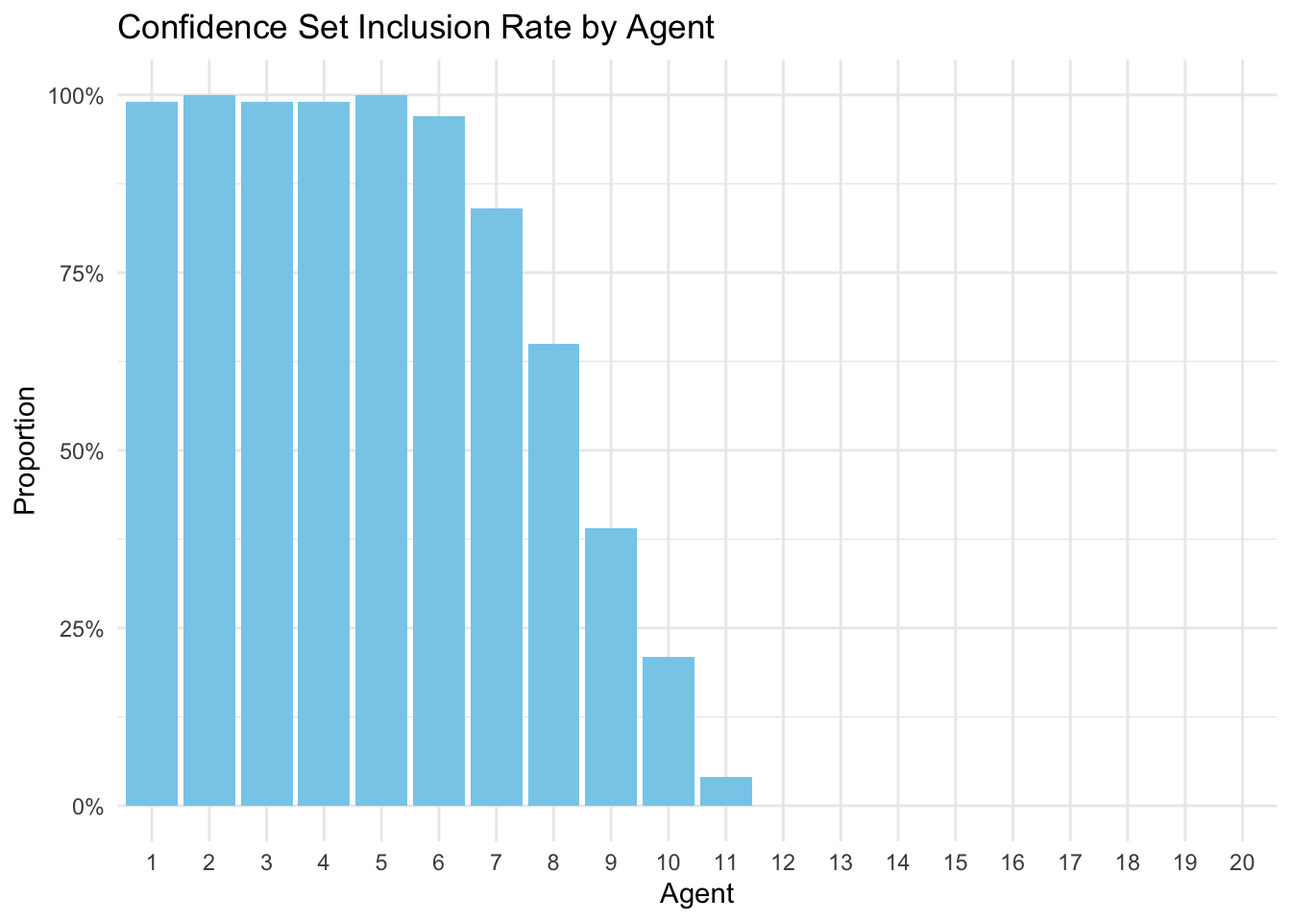
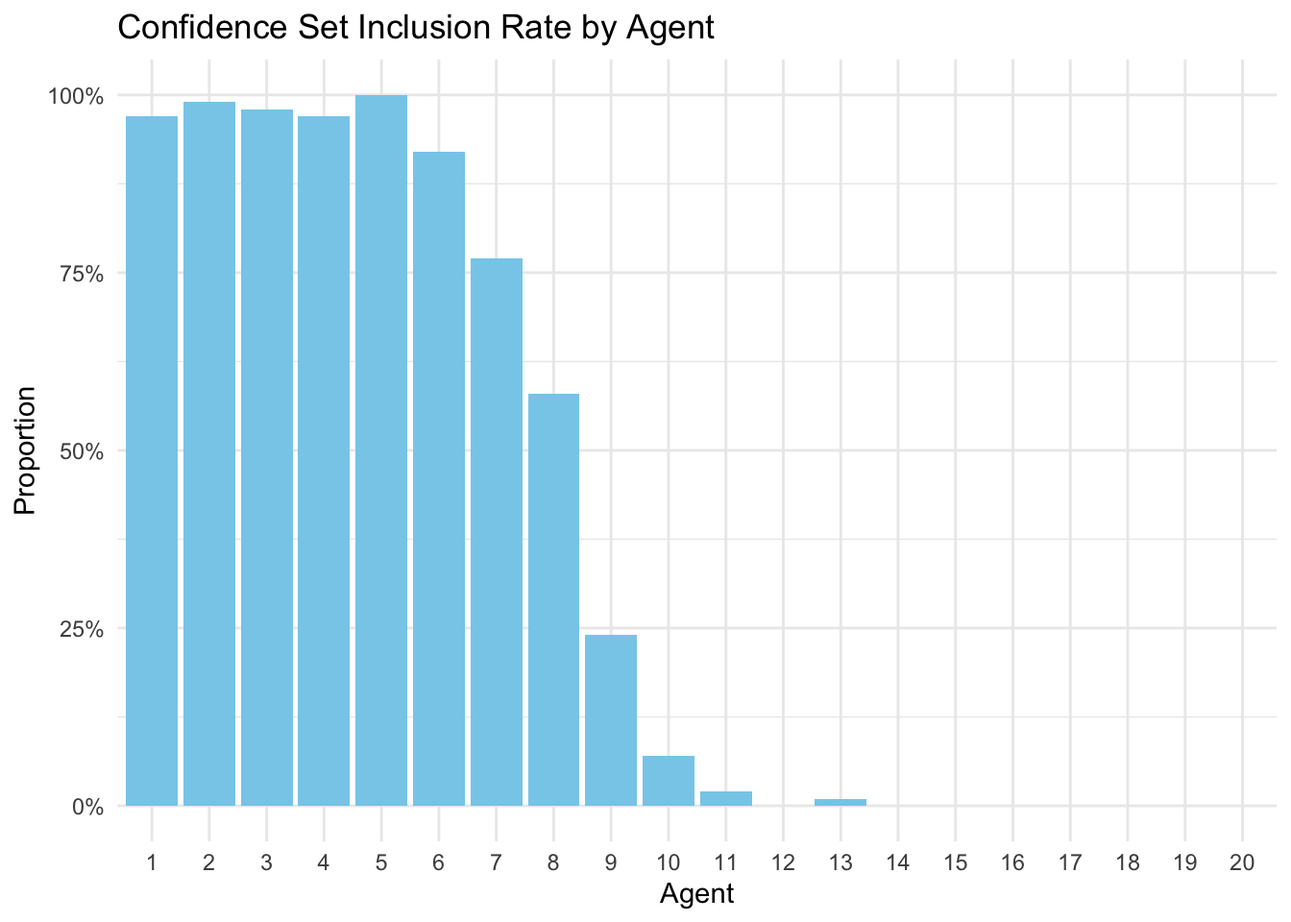
re-run Tianyu's demo

diff --git a/docs/demo_CSargmin.html b/docs/demo_CSargmin.html
@@ -134,20 +134,23 @@ Obs_5 0.23151296 1.05924724 1.3493602  0.2582443  0.4914450</code></pre>
 </div>
 <p>Agents 1–5 have the lowest true losses.</p>
 <div class="cell">
-<div class="sourceCode cell-code" id="cb4"><pre class="sourceCode r code-with-copy"><code class="sourceCode r"><span id="cb4-1"><a href="#cb4-1" aria-hidden="true" tabindex="-1"></a><span class="fu">library</span>(ggplot2)</span>
-<span id="cb4-2"><a href="#cb4-2" aria-hidden="true" tabindex="-1"></a>df <span class="ot">&lt;-</span> <span class="fu">data.frame</span>(</span>
-<span id="cb4-3"><a href="#cb4-3" aria-hidden="true" tabindex="-1"></a>    <span class="at">Agent =</span> <span class="fu">factor</span>(<span class="dv">1</span><span class="sc">:</span>agent_num),</span>
-<span id="cb4-4"><a href="#cb4-4" aria-hidden="true" tabindex="-1"></a>    <span class="at">True_Loss =</span> true_loss</span>
-<span id="cb4-5"><a href="#cb4-5" aria-hidden="true" tabindex="-1"></a>)</span>
-<span id="cb4-6"><a href="#cb4-6" aria-hidden="true" tabindex="-1"></a><span class="fu">ggplot</span>(df, <span class="fu">aes</span>(<span class="at">x =</span> Agent, <span class="at">y =</span> True_Loss, <span class="at">group =</span> <span class="dv">1</span>)) <span class="sc">+</span></span>
-<span id="cb4-7"><a href="#cb4-7" aria-hidden="true" tabindex="-1"></a>    <span class="fu">geom_line</span>(<span class="at">color =</span> <span class="st">"steelblue"</span>, <span class="at">linewidth =</span> <span class="dv">1</span>) <span class="sc">+</span></span>
-<span id="cb4-8"><a href="#cb4-8" aria-hidden="true" tabindex="-1"></a>    <span class="fu">geom_point</span>(<span class="at">color =</span> <span class="st">"darkred"</span>, <span class="at">size =</span> <span class="dv">2</span>) <span class="sc">+</span></span>
-<span id="cb4-9"><a href="#cb4-9" aria-hidden="true" tabindex="-1"></a>    <span class="fu">theme_minimal</span>() <span class="sc">+</span></span>
-<span id="cb4-10"><a href="#cb4-10" aria-hidden="true" tabindex="-1"></a>    <span class="fu">labs</span>(</span>
-<span id="cb4-11"><a href="#cb4-11" aria-hidden="true" tabindex="-1"></a>        <span class="at">title =</span> <span class="st">"True Loss for Each Agent"</span>,</span>
-<span id="cb4-12"><a href="#cb4-12" aria-hidden="true" tabindex="-1"></a>        <span class="at">x =</span> <span class="st">"Agent"</span>,</span>
-<span id="cb4-13"><a href="#cb4-13" aria-hidden="true" tabindex="-1"></a>        <span class="at">y =</span> <span class="st">"True Loss"</span></span>
-<span id="cb4-14"><a href="#cb4-14" aria-hidden="true" tabindex="-1"></a>    )</span></code><button title="Copy to Clipboard" class="code-copy-button"><i class="bi"></i></button></pre></div>
+<div class="sourceCode cell-code" id="cb4"><pre class="sourceCode r code-with-copy"><code class="sourceCode r"><span id="cb4-1"><a href="#cb4-1" aria-hidden="true" tabindex="-1"></a><span class="fu">library</span>(ggplot2)</span></code><button title="Copy to Clipboard" class="code-copy-button"><i class="bi"></i></button></pre></div>
+<div class="cell-output cell-output-stderr">
+<pre><code>Warning: package 'ggplot2' was built under R version 4.3.3</code></pre>
+</div>
+<div class="sourceCode cell-code" id="cb6"><pre class="sourceCode r code-with-copy"><code class="sourceCode r"><span id="cb6-1"><a href="#cb6-1" aria-hidden="true" tabindex="-1"></a>df <span class="ot">&lt;-</span> <span class="fu">data.frame</span>(</span>
+<span id="cb6-2"><a href="#cb6-2" aria-hidden="true" tabindex="-1"></a>    <span class="at">Agent =</span> <span class="fu">factor</span>(<span class="dv">1</span><span class="sc">:</span>agent_num),</span>
+<span id="cb6-3"><a href="#cb6-3" aria-hidden="true" tabindex="-1"></a>    <span class="at">True_Loss =</span> true_loss</span>
+<span id="cb6-4"><a href="#cb6-4" aria-hidden="true" tabindex="-1"></a>)</span>
+<span id="cb6-5"><a href="#cb6-5" aria-hidden="true" tabindex="-1"></a><span class="fu">ggplot</span>(df, <span class="fu">aes</span>(<span class="at">x =</span> Agent, <span class="at">y =</span> True_Loss, <span class="at">group =</span> <span class="dv">1</span>)) <span class="sc">+</span></span>
+<span id="cb6-6"><a href="#cb6-6" aria-hidden="true" tabindex="-1"></a>    <span class="fu">geom_line</span>(<span class="at">color =</span> <span class="st">"steelblue"</span>, <span class="at">linewidth =</span> <span class="dv">1</span>) <span class="sc">+</span></span>
+<span id="cb6-7"><a href="#cb6-7" aria-hidden="true" tabindex="-1"></a>    <span class="fu">geom_point</span>(<span class="at">color =</span> <span class="st">"darkred"</span>, <span class="at">size =</span> <span class="dv">2</span>) <span class="sc">+</span></span>
+<span id="cb6-8"><a href="#cb6-8" aria-hidden="true" tabindex="-1"></a>    <span class="fu">theme_minimal</span>() <span class="sc">+</span></span>
+<span id="cb6-9"><a href="#cb6-9" aria-hidden="true" tabindex="-1"></a>    <span class="fu">labs</span>(</span>
+<span id="cb6-10"><a href="#cb6-10" aria-hidden="true" tabindex="-1"></a>        <span class="at">title =</span> <span class="st">"True Loss for Each Agent"</span>,</span>
+<span id="cb6-11"><a href="#cb6-11" aria-hidden="true" tabindex="-1"></a>        <span class="at">x =</span> <span class="st">"Agent"</span>,</span>
+<span id="cb6-12"><a href="#cb6-12" aria-hidden="true" tabindex="-1"></a>        <span class="at">y =</span> <span class="st">"True Loss"</span></span>
+<span id="cb6-13"><a href="#cb6-13" aria-hidden="true" tabindex="-1"></a>    )</span></code><button title="Copy to Clipboard" class="code-copy-button"><i class="bi"></i></button></pre></div>
 <div class="cell-output-display">
 <div>
 <figure class="figure">
@@ -158,22 +161,22 @@ Obs_5 0.23151296 1.05924724 1.3493602  0.2582443  0.4914450</code></pre>
 </div>
 <p>A simple approach is to use the agent with the smallest sample mean loss as the estimated best:</p>
 <div class="cell">
-<div class="sourceCode cell-code" id="cb5"><pre class="sourceCode r code-with-copy"><code class="sourceCode r"><span id="cb5-1"><a href="#cb5-1" aria-hidden="true" tabindex="-1"></a>col_avg <span class="ot">&lt;-</span> <span class="fu">colMeans</span>(data)</span>
-<span id="cb5-2"><a href="#cb5-2" aria-hidden="true" tabindex="-1"></a>winner_est <span class="ot">&lt;-</span> <span class="fu">which.min</span>(col_avg)</span>
-<span id="cb5-3"><a href="#cb5-3" aria-hidden="true" tabindex="-1"></a><span class="fu">cat</span>(<span class="st">"Estimated winner: Agent"</span>, winner_est, <span class="st">"with average loss"</span>, col_avg[winner_est], <span class="st">"</span><span class="sc">\n</span><span class="st">"</span>)</span></code><button title="Copy to Clipboard" class="code-copy-button"><i class="bi"></i></button></pre></div>
+<div class="sourceCode cell-code" id="cb7"><pre class="sourceCode r code-with-copy"><code class="sourceCode r"><span id="cb7-1"><a href="#cb7-1" aria-hidden="true" tabindex="-1"></a>col_avg <span class="ot">&lt;-</span> <span class="fu">colMeans</span>(data)</span>
+<span id="cb7-2"><a href="#cb7-2" aria-hidden="true" tabindex="-1"></a>winner_est <span class="ot">&lt;-</span> <span class="fu">which.min</span>(col_avg)</span>
+<span id="cb7-3"><a href="#cb7-3" aria-hidden="true" tabindex="-1"></a><span class="fu">cat</span>(<span class="st">"Estimated winner: Agent"</span>, winner_est, <span class="st">"with average loss"</span>, col_avg[winner_est], <span class="st">"</span><span class="sc">\n</span><span class="st">"</span>)</span></code><button title="Copy to Clipboard" class="code-copy-button"><i class="bi"></i></button></pre></div>
 <div class="cell-output cell-output-stdout">
 <pre><code>Estimated winner: Agent 5 with average loss 0.5119673 </code></pre>
 </div>
-<div class="sourceCode cell-code" id="cb7"><pre class="sourceCode r code-with-copy"><code class="sourceCode r"><span id="cb7-1"><a href="#cb7-1" aria-hidden="true" tabindex="-1"></a><span class="fu">cat</span>(<span class="st">"True winners are Agents 1 to 5</span><span class="sc">\n</span><span class="st">"</span>)</span></code><button title="Copy to Clipboard" class="code-copy-button"><i class="bi"></i></button></pre></div>
+<div class="sourceCode cell-code" id="cb9"><pre class="sourceCode r code-with-copy"><code class="sourceCode r"><span id="cb9-1"><a href="#cb9-1" aria-hidden="true" tabindex="-1"></a><span class="fu">cat</span>(<span class="st">"True winners are Agents 1 to 5</span><span class="sc">\n</span><span class="st">"</span>)</span></code><button title="Copy to Clipboard" class="code-copy-button"><i class="bi"></i></button></pre></div>
 <div class="cell-output cell-output-stdout">
 <pre><code>True winners are Agents 1 to 5</code></pre>
 </div>
 </div>
 <p>However, due to noise in the observations, it’s important to quantify the uncertainty in this winner selection. The <code>argminCS</code> package provides tools to construct a confidence set for the best agent.</p>
 <div class="cell">
-<div class="sourceCode cell-code" id="cb9"><pre class="sourceCode r code-with-copy"><code class="sourceCode r"><span id="cb9-1"><a href="#cb9-1" aria-hidden="true" tabindex="-1"></a><span class="fu">library</span>(argminCS)</span>
-<span id="cb9-2"><a href="#cb9-2" aria-hidden="true" tabindex="-1"></a>confidence_set <span class="ot">&lt;-</span> <span class="fu">CS.argmin</span>(data, <span class="at">method =</span> <span class="st">"SML"</span>)</span>
-<span id="cb9-3"><a href="#cb9-3" aria-hidden="true" tabindex="-1"></a><span class="fu">print</span>(confidence_set)</span></code><button title="Copy to Clipboard" class="code-copy-button"><i class="bi"></i></button></pre></div>
+<div class="sourceCode cell-code" id="cb11"><pre class="sourceCode r code-with-copy"><code class="sourceCode r"><span id="cb11-1"><a href="#cb11-1" aria-hidden="true" tabindex="-1"></a><span class="fu">library</span>(argminCS)</span>
+<span id="cb11-2"><a href="#cb11-2" aria-hidden="true" tabindex="-1"></a>confidence_set <span class="ot">&lt;-</span> <span class="fu">CS.argmin</span>(data, <span class="at">method =</span> <span class="st">"SML"</span>)</span>
+<span id="cb11-3"><a href="#cb11-3" aria-hidden="true" tabindex="-1"></a><span class="fu">print</span>(confidence_set)</span></code><button title="Copy to Clipboard" class="code-copy-button"><i class="bi"></i></button></pre></div>
 <div class="cell-output cell-output-stdout">
 <pre><code>[1] 1 2 3 4 5 6 7 8 9</code></pre>
 </div>
@@ -181,36 +184,36 @@ Obs_5 0.23151296 1.05924724 1.3493602  0.2582443  0.4914450</code></pre>
 <p>The algorithm think agent 1-9 are all potential best performers given the current data. We made some type-II errors since it includes suboptimal ones.</p>
 <p>We now repeat the procedure 100 times to estimate how often each agent is included in the confidence set:</p>
 <div class="cell">
-<div class="sourceCode cell-code" id="cb11"><pre class="sourceCode r code-with-copy"><code class="sourceCode r"><span id="cb11-1"><a href="#cb11-1" aria-hidden="true" tabindex="-1"></a><span class="fu">set.seed</span>(<span class="dv">123</span>)</span>
-<span id="cb11-2"><a href="#cb11-2" aria-hidden="true" tabindex="-1"></a>repeat_N <span class="ot">&lt;-</span> <span class="dv">100</span></span>
-<span id="cb11-3"><a href="#cb11-3" aria-hidden="true" tabindex="-1"></a>results <span class="ot">&lt;-</span> <span class="fu">matrix</span>(<span class="dv">0</span>, <span class="at">nrow =</span> repeat_N, <span class="at">ncol =</span> agent_num)</span>
-<span id="cb11-4"><a href="#cb11-4" aria-hidden="true" tabindex="-1"></a><span class="fu">colnames</span>(results) <span class="ot">&lt;-</span> <span class="fu">paste0</span>(<span class="st">"Agent_"</span>, <span class="dv">1</span><span class="sc">:</span>agent_num)</span>
-<span id="cb11-5"><a href="#cb11-5" aria-hidden="true" tabindex="-1"></a></span>
-<span id="cb11-6"><a href="#cb11-6" aria-hidden="true" tabindex="-1"></a><span class="cf">for</span> (i <span class="cf">in</span> <span class="dv">1</span><span class="sc">:</span>repeat_N) {</span>
-<span id="cb11-7"><a href="#cb11-7" aria-hidden="true" tabindex="-1"></a>    <span class="co"># Generate new data</span></span>
-<span id="cb11-8"><a href="#cb11-8" aria-hidden="true" tabindex="-1"></a>    data_i <span class="ot">&lt;-</span> MASS<span class="sc">::</span><span class="fu">mvrnorm</span>(sample_size, true_loss, cov)</span>
-<span id="cb11-9"><a href="#cb11-9" aria-hidden="true" tabindex="-1"></a>    <span class="co"># Compute confidence set</span></span>
-<span id="cb11-10"><a href="#cb11-10" aria-hidden="true" tabindex="-1"></a>    cs_i <span class="ot">&lt;-</span> <span class="fu">CS.argmin</span>(data_i, <span class="at">method =</span> <span class="st">"SML"</span>)</span>
-<span id="cb11-11"><a href="#cb11-11" aria-hidden="true" tabindex="-1"></a>    <span class="co"># Mark agents in the confidence set</span></span>
-<span id="cb11-12"><a href="#cb11-12" aria-hidden="true" tabindex="-1"></a>    results[i, <span class="fu">as.numeric</span>(cs_i)] <span class="ot">&lt;-</span> <span class="dv">1</span></span>
-<span id="cb11-13"><a href="#cb11-13" aria-hidden="true" tabindex="-1"></a>}</span>
-<span id="cb11-14"><a href="#cb11-14" aria-hidden="true" tabindex="-1"></a>inclusion_prop <span class="ot">&lt;-</span> <span class="fu">colSums</span>(results) <span class="sc">/</span> repeat_N</span></code><button title="Copy to Clipboard" class="code-copy-button"><i class="bi"></i></button></pre></div>
+<div class="sourceCode cell-code" id="cb13"><pre class="sourceCode r code-with-copy"><code class="sourceCode r"><span id="cb13-1"><a href="#cb13-1" aria-hidden="true" tabindex="-1"></a><span class="fu">set.seed</span>(<span class="dv">123</span>)</span>
+<span id="cb13-2"><a href="#cb13-2" aria-hidden="true" tabindex="-1"></a>repeat_N <span class="ot">&lt;-</span> <span class="dv">100</span></span>
+<span id="cb13-3"><a href="#cb13-3" aria-hidden="true" tabindex="-1"></a>results <span class="ot">&lt;-</span> <span class="fu">matrix</span>(<span class="dv">0</span>, <span class="at">nrow =</span> repeat_N, <span class="at">ncol =</span> agent_num)</span>
+<span id="cb13-4"><a href="#cb13-4" aria-hidden="true" tabindex="-1"></a><span class="fu">colnames</span>(results) <span class="ot">&lt;-</span> <span class="fu">paste0</span>(<span class="st">"Agent_"</span>, <span class="dv">1</span><span class="sc">:</span>agent_num)</span>
+<span id="cb13-5"><a href="#cb13-5" aria-hidden="true" tabindex="-1"></a></span>
+<span id="cb13-6"><a href="#cb13-6" aria-hidden="true" tabindex="-1"></a><span class="cf">for</span> (i <span class="cf">in</span> <span class="dv">1</span><span class="sc">:</span>repeat_N) {</span>
+<span id="cb13-7"><a href="#cb13-7" aria-hidden="true" tabindex="-1"></a>    <span class="co"># Generate new data</span></span>
+<span id="cb13-8"><a href="#cb13-8" aria-hidden="true" tabindex="-1"></a>    data_i <span class="ot">&lt;-</span> MASS<span class="sc">::</span><span class="fu">mvrnorm</span>(sample_size, true_loss, cov)</span>
+<span id="cb13-9"><a href="#cb13-9" aria-hidden="true" tabindex="-1"></a>    <span class="co"># Compute confidence set</span></span>
+<span id="cb13-10"><a href="#cb13-10" aria-hidden="true" tabindex="-1"></a>    cs_i <span class="ot">&lt;-</span> <span class="fu">CS.argmin</span>(data_i, <span class="at">method =</span> <span class="st">"SML"</span>)</span>
+<span id="cb13-11"><a href="#cb13-11" aria-hidden="true" tabindex="-1"></a>    <span class="co"># Mark agents in the confidence set</span></span>
+<span id="cb13-12"><a href="#cb13-12" aria-hidden="true" tabindex="-1"></a>    results[i, <span class="fu">as.numeric</span>(cs_i)] <span class="ot">&lt;-</span> <span class="dv">1</span></span>
+<span id="cb13-13"><a href="#cb13-13" aria-hidden="true" tabindex="-1"></a>}</span>
+<span id="cb13-14"><a href="#cb13-14" aria-hidden="true" tabindex="-1"></a>inclusion_prop <span class="ot">&lt;-</span> <span class="fu">colSums</span>(results) <span class="sc">/</span> repeat_N</span></code><button title="Copy to Clipboard" class="code-copy-button"><i class="bi"></i></button></pre></div>
 </div>
 <div class="cell">
-<div class="sourceCode cell-code" id="cb12"><pre class="sourceCode r code-with-copy"><code class="sourceCode r"><span id="cb12-1"><a href="#cb12-1" aria-hidden="true" tabindex="-1"></a>df_inclusion <span class="ot">&lt;-</span> <span class="fu">data.frame</span>(</span>
-<span id="cb12-2"><a href="#cb12-2" aria-hidden="true" tabindex="-1"></a>    <span class="at">Agent =</span> <span class="fu">factor</span>(<span class="dv">1</span><span class="sc">:</span>agent_num),</span>
-<span id="cb12-3"><a href="#cb12-3" aria-hidden="true" tabindex="-1"></a>    <span class="at">Inclusion =</span> inclusion_prop</span>
-<span id="cb12-4"><a href="#cb12-4" aria-hidden="true" tabindex="-1"></a>)</span>
-<span id="cb12-5"><a href="#cb12-5" aria-hidden="true" tabindex="-1"></a></span>
-<span id="cb12-6"><a href="#cb12-6" aria-hidden="true" tabindex="-1"></a><span class="fu">ggplot</span>(df_inclusion, <span class="fu">aes</span>(<span class="at">x =</span> Agent, <span class="at">y =</span> Inclusion)) <span class="sc">+</span></span>
-<span id="cb12-7"><a href="#cb12-7" aria-hidden="true" tabindex="-1"></a>    <span class="fu">geom_bar</span>(<span class="at">stat =</span> <span class="st">"identity"</span>, <span class="at">fill =</span> <span class="st">"skyblue"</span>) <span class="sc">+</span></span>
-<span id="cb12-8"><a href="#cb12-8" aria-hidden="true" tabindex="-1"></a>    <span class="fu">labs</span>(</span>
-<span id="cb12-9"><a href="#cb12-9" aria-hidden="true" tabindex="-1"></a>        <span class="at">title =</span> <span class="st">"Confidence Set Inclusion Rate by Agent"</span>,</span>
-<span id="cb12-10"><a href="#cb12-10" aria-hidden="true" tabindex="-1"></a>        <span class="at">x =</span> <span class="st">"Agent"</span>,</span>
-<span id="cb12-11"><a href="#cb12-11" aria-hidden="true" tabindex="-1"></a>        <span class="at">y =</span> <span class="st">"Proportion"</span></span>
-<span id="cb12-12"><a href="#cb12-12" aria-hidden="true" tabindex="-1"></a>    ) <span class="sc">+</span></span>
-<span id="cb12-13"><a href="#cb12-13" aria-hidden="true" tabindex="-1"></a>    <span class="fu">theme_minimal</span>() <span class="sc">+</span></span>
-<span id="cb12-14"><a href="#cb12-14" aria-hidden="true" tabindex="-1"></a>    <span class="fu">scale_y_continuous</span>(<span class="at">labels =</span> scales<span class="sc">::</span><span class="fu">percent_format</span>(<span class="at">accuracy =</span> <span class="dv">1</span>))</span></code><button title="Copy to Clipboard" class="code-copy-button"><i class="bi"></i></button></pre></div>
+<div class="sourceCode cell-code" id="cb14"><pre class="sourceCode r code-with-copy"><code class="sourceCode r"><span id="cb14-1"><a href="#cb14-1" aria-hidden="true" tabindex="-1"></a>df_inclusion <span class="ot">&lt;-</span> <span class="fu">data.frame</span>(</span>
+<span id="cb14-2"><a href="#cb14-2" aria-hidden="true" tabindex="-1"></a>    <span class="at">Agent =</span> <span class="fu">factor</span>(<span class="dv">1</span><span class="sc">:</span>agent_num),</span>
+<span id="cb14-3"><a href="#cb14-3" aria-hidden="true" tabindex="-1"></a>    <span class="at">Inclusion =</span> inclusion_prop</span>
+<span id="cb14-4"><a href="#cb14-4" aria-hidden="true" tabindex="-1"></a>)</span>
+<span id="cb14-5"><a href="#cb14-5" aria-hidden="true" tabindex="-1"></a></span>
+<span id="cb14-6"><a href="#cb14-6" aria-hidden="true" tabindex="-1"></a><span class="fu">ggplot</span>(df_inclusion, <span class="fu">aes</span>(<span class="at">x =</span> Agent, <span class="at">y =</span> Inclusion)) <span class="sc">+</span></span>
+<span id="cb14-7"><a href="#cb14-7" aria-hidden="true" tabindex="-1"></a>    <span class="fu">geom_bar</span>(<span class="at">stat =</span> <span class="st">"identity"</span>, <span class="at">fill =</span> <span class="st">"skyblue"</span>) <span class="sc">+</span></span>
+<span id="cb14-8"><a href="#cb14-8" aria-hidden="true" tabindex="-1"></a>    <span class="fu">labs</span>(</span>
+<span id="cb14-9"><a href="#cb14-9" aria-hidden="true" tabindex="-1"></a>        <span class="at">title =</span> <span class="st">"Confidence Set Inclusion Rate by Agent"</span>,</span>
+<span id="cb14-10"><a href="#cb14-10" aria-hidden="true" tabindex="-1"></a>        <span class="at">x =</span> <span class="st">"Agent"</span>,</span>
+<span id="cb14-11"><a href="#cb14-11" aria-hidden="true" tabindex="-1"></a>        <span class="at">y =</span> <span class="st">"Proportion"</span></span>
+<span id="cb14-12"><a href="#cb14-12" aria-hidden="true" tabindex="-1"></a>    ) <span class="sc">+</span></span>
+<span id="cb14-13"><a href="#cb14-13" aria-hidden="true" tabindex="-1"></a>    <span class="fu">theme_minimal</span>() <span class="sc">+</span></span>
+<span id="cb14-14"><a href="#cb14-14" aria-hidden="true" tabindex="-1"></a>    <span class="fu">scale_y_continuous</span>(<span class="at">labels =</span> scales<span class="sc">::</span><span class="fu">percent_format</span>(<span class="at">accuracy =</span> <span class="dv">1</span>))</span></code><button title="Copy to Clipboard" class="code-copy-button"><i class="bi"></i></button></pre></div>
 <div class="cell-output-display">
 <div>
 <figure class="figure">
@@ -221,40 +224,40 @@ Obs_5 0.23151296 1.05924724 1.3493602  0.2582443  0.4914450</code></pre>
 </div>
 <p>Next, we increase the sample size:</p>
 <div class="cell">
-<div class="sourceCode cell-code" id="cb13"><pre class="sourceCode r code-with-copy"><code class="sourceCode r"><span id="cb13-1"><a href="#cb13-1" aria-hidden="true" tabindex="-1"></a>sample_size_large <span class="ot">&lt;-</span> <span class="dv">500</span></span></code><button title="Copy to Clipboard" class="code-copy-button"><i class="bi"></i></button></pre></div>
+<div class="sourceCode cell-code" id="cb15"><pre class="sourceCode r code-with-copy"><code class="sourceCode r"><span id="cb15-1"><a href="#cb15-1" aria-hidden="true" tabindex="-1"></a>sample_size_large <span class="ot">&lt;-</span> <span class="dv">500</span></span></code><button title="Copy to Clipboard" class="code-copy-button"><i class="bi"></i></button></pre></div>
 </div>
 <p>Repeat the simulation at the larger sample size:</p>
 <div class="cell">
-<div class="sourceCode cell-code" id="cb14"><pre class="sourceCode r code-with-copy"><code class="sourceCode r"><span id="cb14-1"><a href="#cb14-1" aria-hidden="true" tabindex="-1"></a><span class="fu">set.seed</span>(<span class="dv">123</span>)</span>
-<span id="cb14-2"><a href="#cb14-2" aria-hidden="true" tabindex="-1"></a>results <span class="ot">&lt;-</span> <span class="fu">matrix</span>(<span class="dv">0</span>, <span class="at">nrow =</span> repeat_N, <span class="at">ncol =</span> agent_num)</span>
-<span id="cb14-3"><a href="#cb14-3" aria-hidden="true" tabindex="-1"></a><span class="fu">colnames</span>(results) <span class="ot">&lt;-</span> <span class="fu">paste0</span>(<span class="st">"Agent_"</span>, <span class="dv">1</span><span class="sc">:</span>agent_num)</span>
-<span id="cb14-4"><a href="#cb14-4" aria-hidden="true" tabindex="-1"></a></span>
-<span id="cb14-5"><a href="#cb14-5" aria-hidden="true" tabindex="-1"></a><span class="cf">for</span> (i <span class="cf">in</span> <span class="dv">1</span><span class="sc">:</span>repeat_N) {</span>
-<span id="cb14-6"><a href="#cb14-6" aria-hidden="true" tabindex="-1"></a>    <span class="co"># Generate new data</span></span>
-<span id="cb14-7"><a href="#cb14-7" aria-hidden="true" tabindex="-1"></a>    data_i <span class="ot">&lt;-</span> MASS<span class="sc">::</span><span class="fu">mvrnorm</span>(sample_size_large, true_loss, cov)</span>
-<span id="cb14-8"><a href="#cb14-8" aria-hidden="true" tabindex="-1"></a>    <span class="co"># Compute confidence set</span></span>
-<span id="cb14-9"><a href="#cb14-9" aria-hidden="true" tabindex="-1"></a>    cs_i <span class="ot">&lt;-</span> <span class="fu">CS.argmin</span>(data_i, <span class="at">method =</span> <span class="st">"SML"</span>)</span>
-<span id="cb14-10"><a href="#cb14-10" aria-hidden="true" tabindex="-1"></a>    <span class="co"># Mark agents in the confidence set</span></span>
-<span id="cb14-11"><a href="#cb14-11" aria-hidden="true" tabindex="-1"></a>    results[i, <span class="fu">as.numeric</span>(cs_i)] <span class="ot">&lt;-</span> <span class="dv">1</span></span>
-<span id="cb14-12"><a href="#cb14-12" aria-hidden="true" tabindex="-1"></a>}</span>
-<span id="cb14-13"><a href="#cb14-13" aria-hidden="true" tabindex="-1"></a>inclusion_prop_large <span class="ot">&lt;-</span> <span class="fu">colSums</span>(results) <span class="sc">/</span> repeat_N</span></code><button title="Copy to Clipboard" class="code-copy-button"><i class="bi"></i></button></pre></div>
+<div class="sourceCode cell-code" id="cb16"><pre class="sourceCode r code-with-copy"><code class="sourceCode r"><span id="cb16-1"><a href="#cb16-1" aria-hidden="true" tabindex="-1"></a><span class="fu">set.seed</span>(<span class="dv">123</span>)</span>
+<span id="cb16-2"><a href="#cb16-2" aria-hidden="true" tabindex="-1"></a>results <span class="ot">&lt;-</span> <span class="fu">matrix</span>(<span class="dv">0</span>, <span class="at">nrow =</span> repeat_N, <span class="at">ncol =</span> agent_num)</span>
+<span id="cb16-3"><a href="#cb16-3" aria-hidden="true" tabindex="-1"></a><span class="fu">colnames</span>(results) <span class="ot">&lt;-</span> <span class="fu">paste0</span>(<span class="st">"Agent_"</span>, <span class="dv">1</span><span class="sc">:</span>agent_num)</span>
+<span id="cb16-4"><a href="#cb16-4" aria-hidden="true" tabindex="-1"></a></span>
+<span id="cb16-5"><a href="#cb16-5" aria-hidden="true" tabindex="-1"></a><span class="cf">for</span> (i <span class="cf">in</span> <span class="dv">1</span><span class="sc">:</span>repeat_N) {</span>
+<span id="cb16-6"><a href="#cb16-6" aria-hidden="true" tabindex="-1"></a>    <span class="co"># Generate new data</span></span>
+<span id="cb16-7"><a href="#cb16-7" aria-hidden="true" tabindex="-1"></a>    data_i <span class="ot">&lt;-</span> MASS<span class="sc">::</span><span class="fu">mvrnorm</span>(sample_size_large, true_loss, cov)</span>
+<span id="cb16-8"><a href="#cb16-8" aria-hidden="true" tabindex="-1"></a>    <span class="co"># Compute confidence set</span></span>
+<span id="cb16-9"><a href="#cb16-9" aria-hidden="true" tabindex="-1"></a>    cs_i <span class="ot">&lt;-</span> <span class="fu">CS.argmin</span>(data_i, <span class="at">method =</span> <span class="st">"SML"</span>)</span>
+<span id="cb16-10"><a href="#cb16-10" aria-hidden="true" tabindex="-1"></a>    <span class="co"># Mark agents in the confidence set</span></span>
+<span id="cb16-11"><a href="#cb16-11" aria-hidden="true" tabindex="-1"></a>    results[i, <span class="fu">as.numeric</span>(cs_i)] <span class="ot">&lt;-</span> <span class="dv">1</span></span>
+<span id="cb16-12"><a href="#cb16-12" aria-hidden="true" tabindex="-1"></a>}</span>
+<span id="cb16-13"><a href="#cb16-13" aria-hidden="true" tabindex="-1"></a>inclusion_prop_large <span class="ot">&lt;-</span> <span class="fu">colSums</span>(results) <span class="sc">/</span> repeat_N</span></code><button title="Copy to Clipboard" class="code-copy-button"><i class="bi"></i></button></pre></div>
 </div>
 <p>With a larger sample size, suboptimal agents are included less frequently in the confidence set. In fact, in our paper, we theoretically showed that each of the optimal agents is included with probability exceeding 0.95 while the probability of including any suboptimal agent converges to zero.</p>
 <div class="cell">
-<div class="sourceCode cell-code" id="cb15"><pre class="sourceCode r code-with-copy"><code class="sourceCode r"><span id="cb15-1"><a href="#cb15-1" aria-hidden="true" tabindex="-1"></a>df_inclusion <span class="ot">&lt;-</span> <span class="fu">data.frame</span>(</span>
-<span id="cb15-2"><a href="#cb15-2" aria-hidden="true" tabindex="-1"></a>    <span class="at">Agent =</span> <span class="fu">factor</span>(<span class="dv">1</span><span class="sc">:</span>agent_num),</span>
-<span id="cb15-3"><a href="#cb15-3" aria-hidden="true" tabindex="-1"></a>    <span class="at">Inclusion =</span> inclusion_prop_large</span>
-<span id="cb15-4"><a href="#cb15-4" aria-hidden="true" tabindex="-1"></a>)</span>
-<span id="cb15-5"><a href="#cb15-5" aria-hidden="true" tabindex="-1"></a></span>
-<span id="cb15-6"><a href="#cb15-6" aria-hidden="true" tabindex="-1"></a><span class="fu">ggplot</span>(df_inclusion, <span class="fu">aes</span>(<span class="at">x =</span> Agent, <span class="at">y =</span> Inclusion)) <span class="sc">+</span></span>
-<span id="cb15-7"><a href="#cb15-7" aria-hidden="true" tabindex="-1"></a>    <span class="fu">geom_bar</span>(<span class="at">stat =</span> <span class="st">"identity"</span>, <span class="at">fill =</span> <span class="st">"skyblue"</span>) <span class="sc">+</span></span>
-<span id="cb15-8"><a href="#cb15-8" aria-hidden="true" tabindex="-1"></a>    <span class="fu">labs</span>(</span>
-<span id="cb15-9"><a href="#cb15-9" aria-hidden="true" tabindex="-1"></a>        <span class="at">title =</span> <span class="st">"Confidence Set Inclusion Rate by Agent"</span>,</span>
-<span id="cb15-10"><a href="#cb15-10" aria-hidden="true" tabindex="-1"></a>        <span class="at">x =</span> <span class="st">"Agent"</span>,</span>
-<span id="cb15-11"><a href="#cb15-11" aria-hidden="true" tabindex="-1"></a>        <span class="at">y =</span> <span class="st">"Proportion"</span></span>
-<span id="cb15-12"><a href="#cb15-12" aria-hidden="true" tabindex="-1"></a>    ) <span class="sc">+</span></span>
-<span id="cb15-13"><a href="#cb15-13" aria-hidden="true" tabindex="-1"></a>    <span class="fu">theme_minimal</span>() <span class="sc">+</span></span>
-<span id="cb15-14"><a href="#cb15-14" aria-hidden="true" tabindex="-1"></a>    <span class="fu">scale_y_continuous</span>(<span class="at">labels =</span> scales<span class="sc">::</span><span class="fu">percent_format</span>(<span class="at">accuracy =</span> <span class="dv">1</span>))</span></code><button title="Copy to Clipboard" class="code-copy-button"><i class="bi"></i></button></pre></div>
+<div class="sourceCode cell-code" id="cb17"><pre class="sourceCode r code-with-copy"><code class="sourceCode r"><span id="cb17-1"><a href="#cb17-1" aria-hidden="true" tabindex="-1"></a>df_inclusion <span class="ot">&lt;-</span> <span class="fu">data.frame</span>(</span>
+<span id="cb17-2"><a href="#cb17-2" aria-hidden="true" tabindex="-1"></a>    <span class="at">Agent =</span> <span class="fu">factor</span>(<span class="dv">1</span><span class="sc">:</span>agent_num),</span>
+<span id="cb17-3"><a href="#cb17-3" aria-hidden="true" tabindex="-1"></a>    <span class="at">Inclusion =</span> inclusion_prop_large</span>
+<span id="cb17-4"><a href="#cb17-4" aria-hidden="true" tabindex="-1"></a>)</span>
+<span id="cb17-5"><a href="#cb17-5" aria-hidden="true" tabindex="-1"></a></span>
+<span id="cb17-6"><a href="#cb17-6" aria-hidden="true" tabindex="-1"></a><span class="fu">ggplot</span>(df_inclusion, <span class="fu">aes</span>(<span class="at">x =</span> Agent, <span class="at">y =</span> Inclusion)) <span class="sc">+</span></span>
+<span id="cb17-7"><a href="#cb17-7" aria-hidden="true" tabindex="-1"></a>    <span class="fu">geom_bar</span>(<span class="at">stat =</span> <span class="st">"identity"</span>, <span class="at">fill =</span> <span class="st">"skyblue"</span>) <span class="sc">+</span></span>
+<span id="cb17-8"><a href="#cb17-8" aria-hidden="true" tabindex="-1"></a>    <span class="fu">labs</span>(</span>
+<span id="cb17-9"><a href="#cb17-9" aria-hidden="true" tabindex="-1"></a>        <span class="at">title =</span> <span class="st">"Confidence Set Inclusion Rate by Agent"</span>,</span>
+<span id="cb17-10"><a href="#cb17-10" aria-hidden="true" tabindex="-1"></a>        <span class="at">x =</span> <span class="st">"Agent"</span>,</span>
+<span id="cb17-11"><a href="#cb17-11" aria-hidden="true" tabindex="-1"></a>        <span class="at">y =</span> <span class="st">"Proportion"</span></span>
+<span id="cb17-12"><a href="#cb17-12" aria-hidden="true" tabindex="-1"></a>    ) <span class="sc">+</span></span>
+<span id="cb17-13"><a href="#cb17-13" aria-hidden="true" tabindex="-1"></a>    <span class="fu">theme_minimal</span>() <span class="sc">+</span></span>
+<span id="cb17-14"><a href="#cb17-14" aria-hidden="true" tabindex="-1"></a>    <span class="fu">scale_y_continuous</span>(<span class="at">labels =</span> scales<span class="sc">::</span><span class="fu">percent_format</span>(<span class="at">accuracy =</span> <span class="dv">1</span>))</span></code><button title="Copy to Clipboard" class="code-copy-button"><i class="bi"></i></button></pre></div>
 <div class="cell-output-display">
 <div>
 <figure class="figure">

diff --git a/README.md b/README.md
@@ -51,36 +51,33 @@ difference.matrix <- matrix(rep(data[, dimension], p-1),
                             byrow = FALSE) - data[, -dimension]
 argmin.HT(difference.matrix, method='SML')
 #> $test.stat.scale
-#> [1] -0.7101986
+#> [1] 2.274283
 #> 
 #> $critical.value
 #> [1] 1.644854
 #> 
 #> $std
-#> [1] 0.7251399
+#> [1] 1
 #> 
 #> $ans
-#> [1] "Accept"
+#> [1] "Reject"
 #> 
 #> $lambda
-#> [1] 5.656854
+#> [1] 1.94368e+11
 #> 
 #> $lambda.capped
-#> [1] FALSE
+#> [1] TRUE
 #> 
 #> $residual.slepian
-#> [1] 0.04882178
+#> [1] 0
 #> 
 #> $variance.bound
-#> [1] 0.03146688
-#> 
-#> $test.stat.centered
-#> NULL
+#> [1] 0.0842562
 
 ## rather than perform a hypothesis testing for a specific dimension, 
 ## one can directly generate a discrete confidence set by 
 CS.argmin(data, method='SML')
-#> [1] 1 2 5 6
+#> [1] 1 2
 ```
 
 ## Detailed Tutorial
@@ -90,17 +87,6 @@ Here is a detailed
 
 Regarding other details of methods, we encourage users to install the
 package and check function documentation.
-<!-- What is special about using `README.Rmd` instead of just `README.md`? You can include R chunks like so: -->
-
-<!-- ```{r cars} -->
-<!-- summary(cars) -->
-<!-- ``` -->
-<!-- You'll still need to render `README.Rmd` regularly, to keep `README.md` up-to-date. `devtools::build_readme()` is handy for this. -->
-<!-- You can also embed plots, for example: -->
-<!-- ```{r pressure, echo = FALSE} -->
-<!-- plot(pressure) -->
-<!-- ``` -->
-<!-- In that case, don't forget to commit and push the resulting figure files, so they display on GitHub and CRAN. -->
 
 ## Key References
 
@@ -109,7 +95,7 @@ package and check function documentation.
 <div id="ref-cck.many.moments" class="csl-entry">
 
 Chernozhukov, V., D. Chetverikov, and K. Kato. 2013. “Testing Many
-Moment Inequalities.” IDEAS Working Paper Series from RePEc.
+Moment Inequalities.” RePEc.
 
 </div>
 
